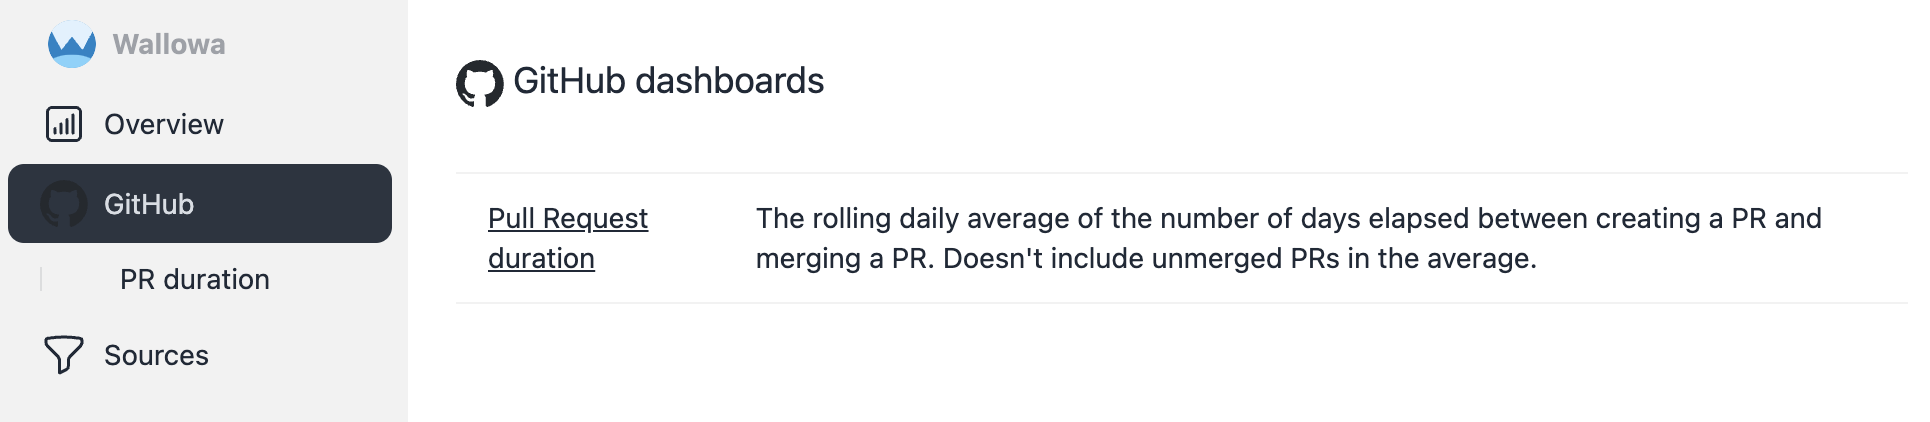
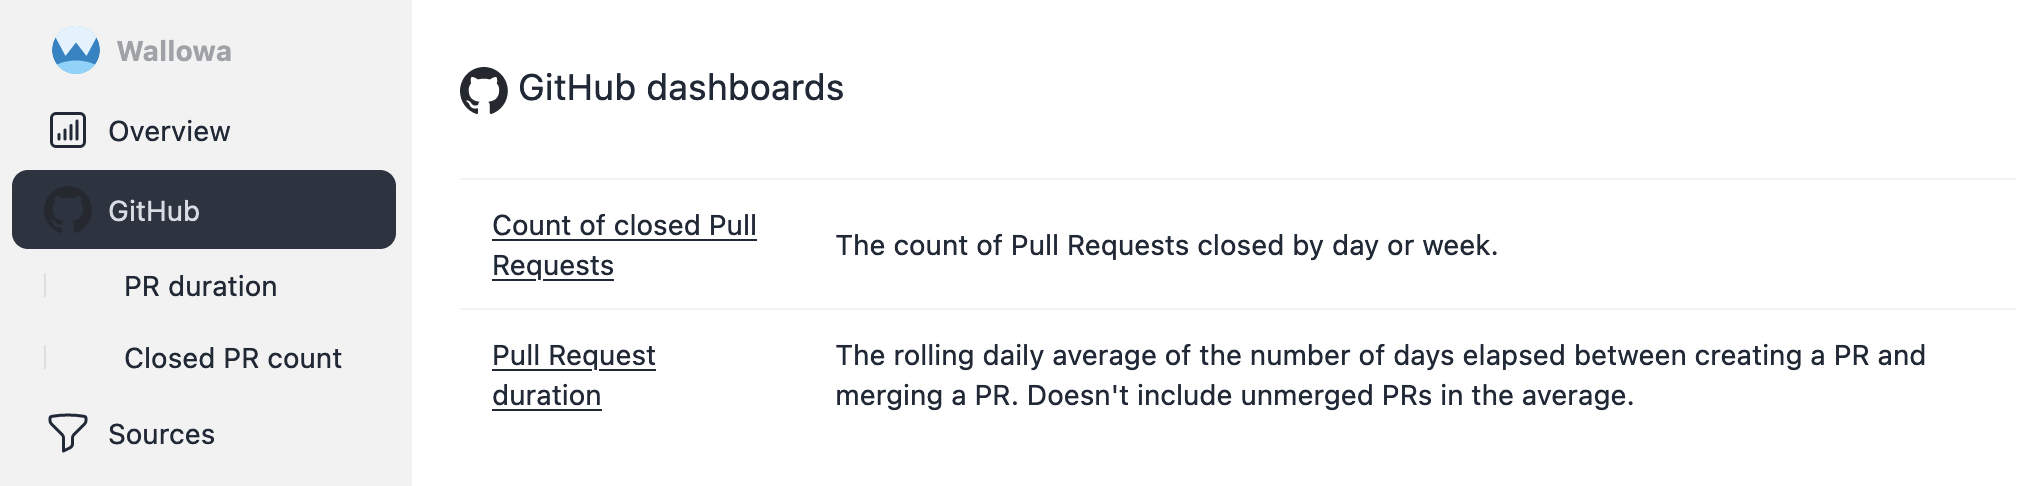
Add documentation for the count of closed GH PRs

diff --git a/website/docs/sources/github.md b/website/docs/sources/github.md
@@ -97,3 +97,74 @@ The parameters in order are:
 - repo_placeholders is one of:
     - `SELECT DISTINCT (row.base.repo.owner.login || '/' || row.base.repo.name) AS repo FROM pulls` for all repos (no filtering to specific repos)
     - `SELECT unnest([{}])` where `{}` is replaced with a `?,` for each repo to include in the filter, and each repo is added as a query parameter
+
+#### Count of closed Pull Requests by repo <Badge type="info" text="v0.2.0" /> {#closed-pr-count}
+
+The count of Pull Requests closed by day (if date range is &le; 10 weeks) or week (if date range is &gt; 10 weeks).
+
+![Screenshot of the count of closed Pull Requests by repo chart](../screenshots/wallowa-count-closed-pr-overview-static.png)
+
+Here is the query used to gather this data (located in the `closed_prs` function in [src/github/queries.rs](https://github.com/gunrein/wallowa/blob/main/src/github/queries.rs) for context).
+
+```sql
+WITH pulls AS (
+    SELECT
+        id,
+        "data_source",
+        unnest(json_transform_strict("data",
+            '[{{
+                "url": "VARCHAR",
+                "base": {{
+                    "repo": {{
+                        "name": "VARCHAR",
+                        "owner": {{
+                            "login": "VARCHAR"
+                        }}
+                    }}
+                }},
+                "state": "VARCHAR",
+                "created_at": "TIMESTAMP",
+                "closed_at": "TIMESTAMP",
+                "merged_at": "TIMESTAMP",
+                "updated_at": "TIMESTAMP",
+                "draft": "BOOLEAN"
+            }}]')) AS row,
+    FROM wallowa_raw_data
+    WHERE "data_source" = 'github_rest_api'
+    AND data_type = 'pulls'
+),
+repos AS (
+    {repo_placeholders}
+),
+latest_deduped_pulls_window AS (
+    SELECT
+        row.url AS "url",
+        (row.base.repo.owner.login || '/' || row.base.repo.name) AS repo,
+        row.created_at AS created_at,
+        row.merged_at AS merged_at,
+        row.updated_at AS updated_at,
+        row.closed_at AS closed_at,
+        row_number() OVER (PARTITION BY "url" ORDER BY updated_at DESC) AS row_number
+    FROM pulls
+    WHERE repo IN (SELECT repo FROM repos)
+)
+SELECT
+    "url",
+    repo,
+    created_at,
+    merged_at,
+    updated_at,
+    CAST(latest_deduped_pulls_window.closed_at AS DATE) AS closed_at
+FROM latest_deduped_pulls_window
+WHERE row_number = 1
+AND closed_at >= ?
+AND closed_at <= ?
+```
+
+The parameters in order are:
+
+- repo_placeholders is one of:
+    - `SELECT DISTINCT (row.base.repo.owner.login || '/' || row.base.repo.name) AS repo FROM pulls` for all repos (no filtering to specific repos)
+    - `SELECT unnest([{}])` where `{}` is replaced with a `?,` for each repo to include in the filter, and each repo is added as a query parameter
+- Start date
+- End date

diff --git a/website/docs/changelog.md b/website/docs/changelog.md
@@ -18,6 +18,28 @@ Follow [these steps](https://duckdb.org/internals/storage#how-to-move-between-st
 before upgrading `wallowa` until DuckDB storage format stability is reached.
 :::
 
+### v0.2.0 on September 18, 2023 {#v0.2.0}
+
+This release adds the [GitHub count of closed Pull Requests by repo](sources/github#closed-pr-count) and fixes a bug.
+
+Thanks to [@NoriSte](https://github.com/NoriSte) for contributing [PR #14](https://github.com/gunrein/wallowa/pull/14)!
+
+This version uses DuckDB v0.8.1.
+
+The only prebuilt binary for this version is for MacOS on ARM.
+
+[Download v0.2.0](https://github.com/gunrein/wallowa/releases/tag/v0.2.0)
+
+#### Changes
+
+- Added a new [GitHub count of closed Pull Requests by repo chart](sources/github#closed-pr-count)
+- Added the GitHub count of closed Pull Requests by repo chart to the dashboard
+- Fixed an incorrect https URL in the [get started](get-started) content and CLI. Thanks to [@NoriSte](https://github.com/NoriSte) for [PR #14](https://github.com/gunrein/wallowa/pull/14)!
+
+#### Known issues
+
+- Background data fetching in the server has a concurrency issue. During a fetch charts and other display elements that require data from the database will be slow to respond.
+
 ### v0.1.0 on September 6, 2023 {#v0.1.0}
 
 The initial version of `wallowa`. This version uses DuckDB v0.8.1.

diff --git a/website/docs/web-ui.md b/website/docs/web-ui.md
@@ -18,7 +18,7 @@ The repo filter stores which repos are *not* selected so that any new repos that
 
 The overview dashboard is currently sparse with only one chart at the moment, but will show more information as more sources are added.
 
-The dashboard shows a small version of the [Merged Pull Request duration by Repo](#github-pull-duration) chart.
+The dashboard shows small versions of the [Merged Pull Request duration by Repo](#github-pull-duration) and [Count of closed Pull Requests by repo](#github-closed-pr-count) chart.
 
 ![Screenshot of the dashboard](screenshots/wallowa-dashboard-static.png)
 
@@ -41,3 +41,11 @@ Unmerged PRs are not included in the average. Details can be found on the
 [GitHub sources page](sources/github#pull-duration).
 
 ![Screenshot of the GitHub Pull Request duration by repo chart](screenshots/wallowa-merged-pr-overview-static.png)
+
+##### Count of closed Pull Requests by repo <Badge type="info" text="v0.2.0" /> {#github-closed-pr-count}
+
+The count of Pull Requests closed by day or week.
+Details can be found on the
+[GitHub sources page](sources/github#closed-pr-count).
+
+![Screenshot of the GitHub Pull Request duration by repo chart](screenshots/wallowa-count-closed-pr-overview-static.png)

diff --git a/website/docs/contributing.md b/website/docs/contributing.md
@@ -28,7 +28,8 @@ Run the documentation development server with `npm run docs:dev`.
 
 #### Deploy the latest documentation & website content
 
-Cloudflare Pages are used to host the website and documentation. Deployment is automatic when any changes are merged into the `website_production` branch. There is no need to build the website and documentation locally/elsewhere, it will be generated automatically from the latest source code by the deploy process.
+[Cloudflare Pages](https://pages.cloudflare.com/)
+are used to host the website and documentation. Deployment is automatic when any changes are merged into the `website_production` branch. There is no need to build the website and documentation locally/elsewhere, it will be generated automatically from the latest source code by the deploy process.
 
 ### Improvements to the tool
 

diff --git a/website/docs/index.md b/website/docs/index.md
@@ -16,6 +16,7 @@ Key system-level DORA/SPACE-like measurements are available [out of the box](sou
 your tooling and processes. Go further by using [SQL, data frames, and other familiar data analysis tools](data-analysis) to query any measured aspect of your SDLC that you can think of. Specific features include:
 
 - Chart the [30 day rolling average time to merge GitHub Pull Requests](sources/github#pull-duration) for a given time range
+- Chart the [count of closed GitHub Pull Requests by day or week](sources/github#closed-pr-count) for a given time range
 - Automatically [fetch GitHub Pull Request (PR)](cli#wallowa-fetch) from the [repos you configure](configuration#github-repos)
 
 ### `wallowa` is **not** a "productivity" measurement tool {#philosophy}
